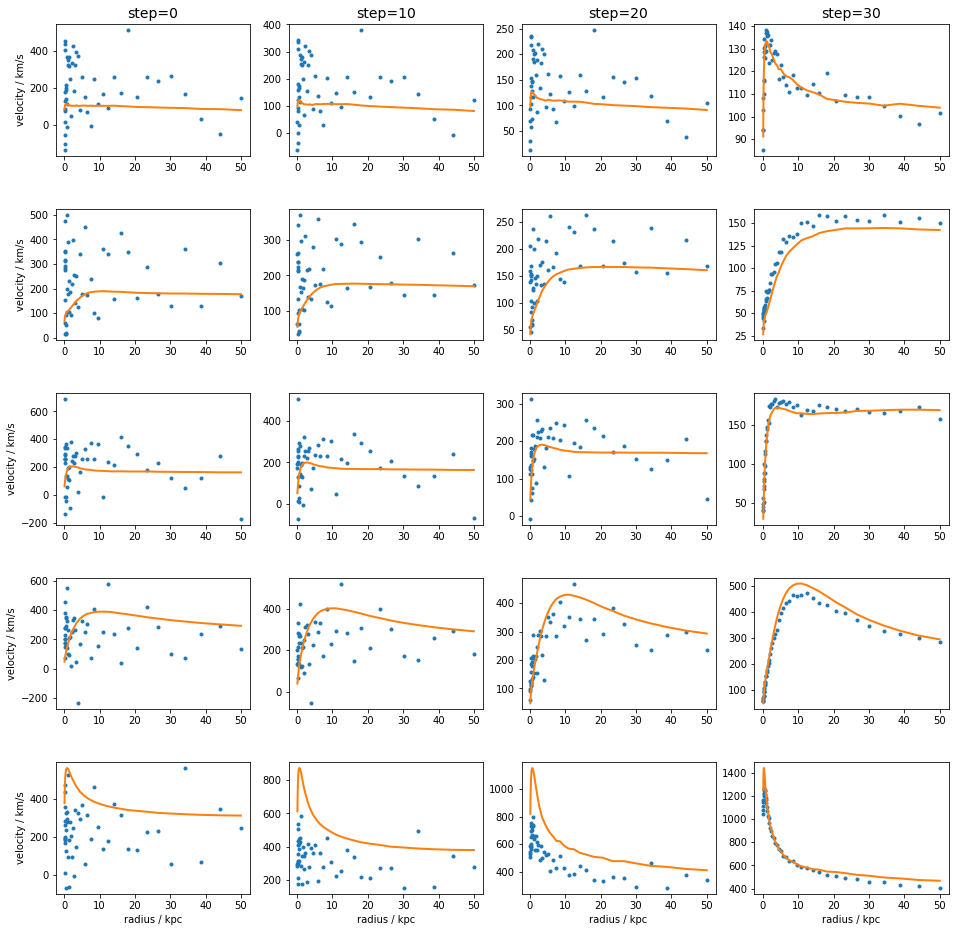
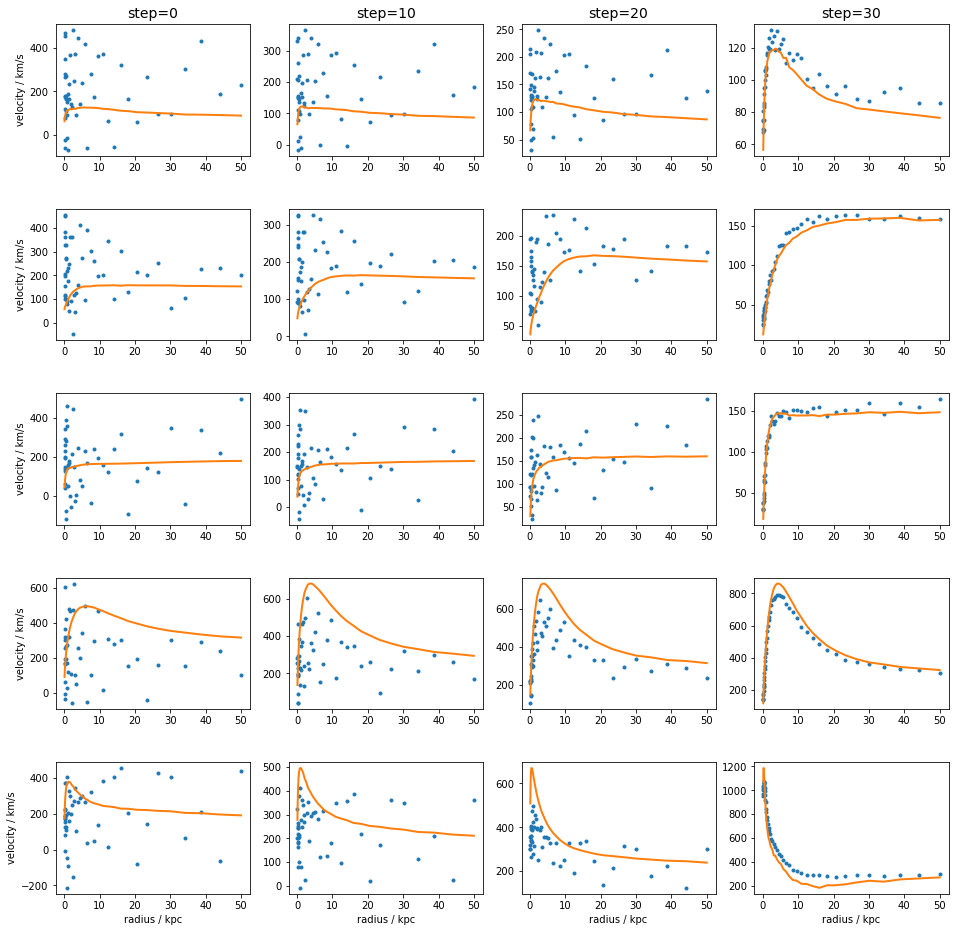
Built site for gh-pages

diff --git a/posts/2023-01-17-diffusion_conditioning.html b/posts/2023-01-17-diffusion_conditioning.html
@@ -125,6 +125,7 @@ code span.wa { color: #60a0b0; font-weight: bold; font-style: italic; } /* Warni
   }
 }</script>
 
+  <script src="https://cdn.jsdelivr.net/npm/mathjax@3/es5/tex-chtml-full.js" type="text/javascript"></script>
 
 <link rel="stylesheet" href="../styles.css">
 </head>
@@ -233,6 +234,7 @@ code span.wa { color: #60a0b0; font-weight: bold; font-style: italic; } /* Warni
   <li><a href="#model" id="toc-model" class="nav-link" data-scroll-target="#model">Model</a></li>
   </ul></li>
   <li><a href="#generating-new-conditioned-data" id="toc-generating-new-conditioned-data" class="nav-link" data-scroll-target="#generating-new-conditioned-data">Generating new conditioned data</a></li>
+  <li><a href="#final-remarks" id="toc-final-remarks" class="nav-link" data-scroll-target="#final-remarks">Final remarks</a></li>
   </ul>
 </nav>
     </div>
@@ -244,7 +246,7 @@ code span.wa { color: #60a0b0; font-weight: bold; font-style: italic; } /* Warni
 
 <section id="how-to-generate-new-data-with-specific-characteristics" class="level2">
 <h2 class="anchored" data-anchor-id="how-to-generate-new-data-with-specific-characteristics">How to generate new data with specific characteristics</h2>
-<p>In the <a href="https://lposti.github.io/mlpq/posts/2023-01-diffusion_intro.html">last notebook</a> I’ve shown how to write from scratch a simplified diffusion model that generates quite realistic rotation curves starting from random noise. This was done by training an autoencoder to denoise rotation curves from a given database and then new curves were generated by gradually denoising pure Gaussian noise.</p>
+<p>In the <a href="https://lposti.github.io/mlpq/posts/2023-01-13-diffusion_intro.html">last notebook</a> I’ve shown how to write from scratch a simplified diffusion model that generates quite realistic rotation curves starting from random noise. This was done by training an autoencoder to denoise rotation curves from a given database and then new curves were generated by gradually denoising pure Gaussian noise.</p>
 <p>The limitation of the pipeline above is that we have no control on what output curve will be generated, since it all stars with random noise and the model slowly enhances some random features in the noise distribution by convincing itself that it is an underlying signal. What we would like to do now is to <strong>guide the model to generate rotation curves with some specific characteristics</strong> – asymptotically flat, fast rise, slow rise, etc. – that we decide upfront. Basically, we are asking the model to focus on and enhance those bits of random noise that kind of look like the features that we are interested in, and by using the same gradual denoising procedure based on small <em>timesteps</em> the algorithm will be able to further refine them and to finally construct a realistic dataset with some given charateristics.</p>
 <div class="cell" data-execution_count="1">
 <details>
@@ -267,7 +269,7 @@ code span.wa { color: #60a0b0; font-weight: bold; font-style: italic; } /* Warni
 </section>
 <section id="data-generation" class="level2">
 <h2 class="anchored" data-anchor-id="data-generation">Data generation</h2>
-<p>Let’s start by generating a rotation curve dataset. This step is borrowed from the blog post <a href="https://lposti.github.io/mlpq/posts/2023-01-diffusion_intro.html">intro to diffusion models</a> and I use the same methodology and the same code. However, to spice things up a bit, here I introduce another mass component to the galaxy rotation curves which is the bulge. Thus, I have a new mass–size relation for bulges that I use to sample the parameter space and I add the circular velocity of a Hernquist bulge into the calculation of the rotation curves.</p>
+<p>Let’s start by generating a rotation curve dataset. This step is borrowed from the blog post <a href="https://lposti.github.io/mlpq/posts/2023-01-13-diffusion_intro.html">intro to diffusion models</a> and I use the same methodology and the same code. However, to spice things up a bit, here I introduce another mass component to the galaxy rotation curves which is the bulge. Thus, I have a new mass–size relation for bulges that I use to sample the parameter space and I add the circular velocity of a Hernquist bulge into the calculation of the rotation curves.</p>
 <p>Galaxies with significantly different mass and size ratios of the disc and bulge components have quite different rotation curves, with distinct recognizeable features – e.g.&nbsp;high bulge-fraction galaxies have rotation curves that rise very steeply, have central peak, and then decline fast, while those with low bulge fraction have a slowly rising curve. The goal of this notebook is then to train a model that can generate rotation curves that have some of these specific features that we can specify upfront.</p>
 <div class="cell" data-execution_count="2">
 <details>
@@ -427,7 +429,7 @@ code span.wa { color: #60a0b0; font-weight: bold; font-style: italic; } /* Warni
 <section id="conditioning-tensors" class="level3">
 <h3 class="anchored" data-anchor-id="conditioning-tensors">Conditioning tensors</h3>
 <p>I select four properties that I use as conditioning: the bulge over stellar mass ratio, the stellar over halo mass ratio, the disc over bulge size ratio, and the stellar mass. While the latter specifies the absolute scale of the galaxy, the other three are relative parameters that are able to constrain the shape of the rotation curve relatively well.</p>
-<div class="cell" data-execution_count="215">
+<div class="cell" data-execution_count="285">
 <div class="sourceCode cell-code" id="cb11"><pre class="sourceCode python code-with-copy"><code class="sourceCode python"><span id="cb11-1"><a href="#cb11-1" aria-hidden="true" tabindex="-1"></a>cond_train <span class="op">=</span> tensor([mb<span class="op">/</span>ms, np.log10(ms<span class="op">/</span>mh), </span>
 <span id="cb11-2"><a href="#cb11-2" aria-hidden="true" tabindex="-1"></a>                     np.log10(rd<span class="op">/</span>rb), np.log10(ms)])[:, idshuff[:<span class="bu">int</span>(nsamp<span class="op">*</span>(<span class="fl">1.0</span><span class="op">-</span>fval))]].T.<span class="bu">float</span>()</span>
 <span id="cb11-3"><a href="#cb11-3" aria-hidden="true" tabindex="-1"></a>cond_valid <span class="op">=</span> tensor([mb<span class="op">/</span>ms, np.log10(ms<span class="op">/</span>mh), </span>
@@ -437,17 +439,17 @@ code span.wa { color: #60a0b0; font-weight: bold; font-style: italic; } /* Warni
 </section>
 <section id="model" class="level3">
 <h3 class="anchored" data-anchor-id="model">Model</h3>
-<div class="cell" data-execution_count="177">
+<div class="cell" data-execution_count="286">
 <div class="sourceCode cell-code" id="cb12"><pre class="sourceCode python code-with-copy"><code class="sourceCode python"><span id="cb12-1"><a href="#cb12-1" aria-hidden="true" tabindex="-1"></a><span class="kw">class</span> AE_cond_net(nn.Module):</span>
 <span id="cb12-2"><a href="#cb12-2" aria-hidden="true" tabindex="-1"></a>    <span class="kw">def</span> <span class="fu">__init__</span>(<span class="va">self</span>, ninp, ncond<span class="op">=</span><span class="dv">4</span>, <span class="op">**</span>kwargs):</span>
 <span id="cb12-3"><a href="#cb12-3" aria-hidden="true" tabindex="-1"></a>        <span class="bu">super</span>().<span class="fu">__init__</span>()</span>
 <span id="cb12-4"><a href="#cb12-4" aria-hidden="true" tabindex="-1"></a>        <span class="va">self</span>.encoder_layers <span class="op">=</span> nn.ModuleList([</span>
 <span id="cb12-5"><a href="#cb12-5" aria-hidden="true" tabindex="-1"></a>            nn.Linear(in_features<span class="op">=</span>ninp<span class="op">+</span>ncond, out_features<span class="op">=</span><span class="dv">32</span>),</span>
 <span id="cb12-6"><a href="#cb12-6" aria-hidden="true" tabindex="-1"></a>            nn.Linear(in_features<span class="op">=</span><span class="dv">32</span>,         out_features<span class="op">=</span><span class="dv">16</span>),</span>
-<span id="cb12-7"><a href="#cb12-7" aria-hidden="true" tabindex="-1"></a>            nn.Linear(in_features<span class="op">=</span><span class="dv">16</span>,         out_features<span class="op">=</span><span class="dv">4</span>)</span>
+<span id="cb12-7"><a href="#cb12-7" aria-hidden="true" tabindex="-1"></a>            nn.Linear(in_features<span class="op">=</span><span class="dv">16</span>,         out_features<span class="op">=</span><span class="dv">6</span>)</span>
 <span id="cb12-8"><a href="#cb12-8" aria-hidden="true" tabindex="-1"></a>        ])</span>
 <span id="cb12-9"><a href="#cb12-9" aria-hidden="true" tabindex="-1"></a>        <span class="va">self</span>.decoder_layers <span class="op">=</span> nn.ModuleList([</span>
-<span id="cb12-10"><a href="#cb12-10" aria-hidden="true" tabindex="-1"></a>            nn.Linear(in_features<span class="op">=</span><span class="dv">4</span>,    out_features<span class="op">=</span><span class="dv">16</span>),</span>
+<span id="cb12-10"><a href="#cb12-10" aria-hidden="true" tabindex="-1"></a>            nn.Linear(in_features<span class="op">=</span><span class="dv">6</span>,    out_features<span class="op">=</span><span class="dv">16</span>),</span>
 <span id="cb12-11"><a href="#cb12-11" aria-hidden="true" tabindex="-1"></a>            nn.Linear(in_features<span class="op">=</span><span class="dv">16</span>,   out_features<span class="op">=</span><span class="dv">32</span>),</span>
 <span id="cb12-12"><a href="#cb12-12" aria-hidden="true" tabindex="-1"></a>            nn.Linear(in_features<span class="op">=</span><span class="dv">32</span>,   out_features<span class="op">=</span>ninp)</span>
 <span id="cb12-13"><a href="#cb12-13" aria-hidden="true" tabindex="-1"></a>        ])</span>
@@ -469,10 +471,10 @@ code span.wa { color: #60a0b0; font-weight: bold; font-style: italic; } /* Warni
 <span id="cb12-29"><a href="#cb12-29" aria-hidden="true" tabindex="-1"></a>        <span class="cf">return</span> x</span></code><button title="Copy to Clipboard" class="code-copy-button"><i class="bi"></i></button></pre></div>
 </div>
 <p>This model is quite similar to the unconditioned autoencoder that I used for the previous blog post, with just the first layer being different as now it takes four more inputs.</p>
-<div class="cell" data-execution_count="179">
+<div class="cell" data-execution_count="287">
 <div class="sourceCode cell-code" id="cb13"><pre class="sourceCode python code-with-copy"><code class="sourceCode python"><span id="cb13-1"><a href="#cb13-1" aria-hidden="true" tabindex="-1"></a>model <span class="op">=</span> AE_cond_net(<span class="bu">len</span>(cm.rad))</span></code><button title="Copy to Clipboard" class="code-copy-button"><i class="bi"></i></button></pre></div>
 </div>
-<div class="cell" data-execution_count="180">
+<div class="cell" data-execution_count="288">
 <div class="sourceCode cell-code" id="cb14"><pre class="sourceCode python code-with-copy"><code class="sourceCode python"><span id="cb14-1"><a href="#cb14-1" aria-hidden="true" tabindex="-1"></a><span class="co"># Adam and MSE Loss</span></span>
 <span id="cb14-2"><a href="#cb14-2" aria-hidden="true" tabindex="-1"></a>loss_func <span class="op">=</span> nn.MSELoss(reduction<span class="op">=</span><span class="st">'mean'</span>)</span>
 <span id="cb14-3"><a href="#cb14-3" aria-hidden="true" tabindex="-1"></a>optimizer <span class="op">=</span> torch.optim.Adam(model.parameters(), lr<span class="op">=</span><span class="fl">0.01</span>)</span>
@@ -499,27 +501,27 @@ code span.wa { color: #60a0b0; font-weight: bold; font-style: italic; } /* Warni
 <span id="cb14-24"><a href="#cb14-24" aria-hidden="true" tabindex="-1"></a>                           <span class="st">"train L:</span><span class="sc">%1.2e</span><span class="st">"</span>   <span class="op">%</span> loss, </span>
 <span id="cb14-25"><a href="#cb14-25" aria-hidden="true" tabindex="-1"></a>                           <span class="st">"  valid L:</span><span class="sc">%1.2e</span><span class="st">"</span> <span class="op">%</span> loss_func(xvalid, model.forward(xvalid, cond_valid)))</span></code><button title="Copy to Clipboard" class="code-copy-button"><i class="bi"></i></button></pre></div>
 <div class="cell-output cell-output-stdout">
-<pre><code>0 train L:1.12e+00   valid L:8.95e-01
-100 train L:1.75e-01   valid L:8.12e-02
-200 train L:1.30e-01   valid L:4.16e-02
-300 train L:1.11e-01   valid L:4.08e-02
-400 train L:1.16e-01   valid L:3.14e-02
-500 train L:1.12e-01   valid L:2.67e-02
-600 train L:1.49e-01   valid L:3.10e-02
-700 train L:1.06e-01   valid L:7.43e-02
-800 train L:8.87e-02   valid L:4.36e-02
-900 train L:1.05e-01   valid L:8.58e-02
-1000 train L:9.61e-02   valid L:2.50e-02
-1100 train L:1.02e-01   valid L:4.59e-02
-1200 train L:9.14e-02   valid L:4.38e-02
-1300 train L:1.07e-01   valid L:5.09e-02
-1400 train L:9.99e-02   valid L:1.62e-02
-1500 train L:9.19e-02   valid L:1.99e-02
-1600 train L:8.79e-02   valid L:2.06e-02
-1700 train L:9.56e-02   valid L:3.83e-02
-1800 train L:9.37e-02   valid L:2.37e-02
-1900 train L:9.59e-02   valid L:5.43e-02
-2000 train L:9.33e-02   valid L:2.87e-02</code></pre>
+<pre><code>0 train L:1.23e+00   valid L:9.17e-01
+100 train L:1.80e-01   valid L:6.70e-02
+200 train L:1.40e-01   valid L:6.90e-02
+300 train L:1.09e-01   valid L:5.56e-02
+400 train L:1.06e-01   valid L:3.59e-02
+500 train L:1.11e-01   valid L:3.06e-02
+600 train L:9.95e-02   valid L:3.14e-02
+700 train L:9.84e-02   valid L:2.69e-02
+800 train L:9.69e-02   valid L:5.71e-02
+900 train L:1.09e-01   valid L:2.76e-02
+1000 train L:1.06e-01   valid L:3.44e-02
+1100 train L:9.14e-02   valid L:2.81e-02
+1200 train L:1.06e-01   valid L:3.16e-02
+1300 train L:1.12e-01   valid L:4.62e-02
+1400 train L:9.92e-02   valid L:1.51e-02
+1500 train L:9.39e-02   valid L:2.78e-02
+1600 train L:1.02e-01   valid L:1.92e-02
+1700 train L:1.03e-01   valid L:1.88e-02
+1800 train L:9.26e-02   valid L:2.04e-02
+1900 train L:8.86e-02   valid L:2.43e-02
+2000 train L:8.94e-02   valid L:3.34e-02</code></pre>
 </div>
 </div>
 </section>
@@ -551,7 +553,7 @@ code span.wa { color: #60a0b0; font-weight: bold; font-style: italic; } /* Warni
 <span id="cb17-17"><a href="#cb17-17" aria-hidden="true" tabindex="-1"></a>inputs  <span class="op">=</span> torch.stack(inputs)</span>
 <span id="cb17-18"><a href="#cb17-18" aria-hidden="true" tabindex="-1"></a>outputs <span class="op">=</span> torch.stack(outputs)</span></code><button title="Copy to Clipboard" class="code-copy-button"><i class="bi"></i></button></pre></div>
 </div>
-<div class="cell" data-execution_count="279">
+<div class="cell" data-execution_count="280">
 <div class="sourceCode cell-code" id="cb18"><pre class="sourceCode python code-with-copy"><code class="sourceCode python"><span id="cb18-1"><a href="#cb18-1" aria-hidden="true" tabindex="-1"></a>fig, ax <span class="op">=</span> plt.subplots(figsize<span class="op">=</span>(<span class="dv">16</span>,<span class="fl">2.5</span>), ncols<span class="op">=</span>inputs.shape[<span class="dv">0</span>])</span>
 <span id="cb18-2"><a href="#cb18-2" aria-hidden="true" tabindex="-1"></a></span>
 <span id="cb18-3"><a href="#cb18-3" aria-hidden="true" tabindex="-1"></a><span class="cf">for</span> j <span class="kw">in</span> <span class="bu">range</span>(inputs.shape[<span class="dv">0</span>]):</span>
@@ -571,15 +573,16 @@ code span.wa { color: #60a0b0; font-weight: bold; font-style: italic; } /* Warni
 </div>
 <p>Fantastic!</p>
 <p>We have successfully created a model that takes as input four numbers, that specify some properties of a galaxy, and it returns as output a realistic rotation curve for that galaxy. The gradual denoising pipeline that we used here is great since it allows us to simply try with another initial random tensor and we will get out a different rotation curve, but with the same features that we specified. This is useful to generate multiple instances of the same galaxy type.</p>
+<p>In the Figure above we can se the <em>temporal sequence</em> of gradual denoising conditioned by the four input parameters in 30 steps. The generated rotation curve in the final step (orange curve, rightmost plot) is compared to circular velocity of the bulge component (red dotted) and dark matter component (black dotted) of a galaxy model with parameters close to those used for the curve generation: <span class="math inline">\(M_{\rm bul}/M_\star = 0.75\)</span>, <span class="math inline">\(\log(M_\star/M_{\rm halo})=-1.1\)</span>, <span class="math inline">\(\log(R_{\rm disc}/R_{\rm bul})=0.8\)</span>, <span class="math inline">\(\log M_\star = 10\)</span>.</p>
 <p>Naturally, we can readily generate new samples of all sorts of galaxy rotation curve types.</p>
-<div class="cell" data-execution_count="209">
+<div class="cell" data-execution_count="289">
 <div class="sourceCode cell-code" id="cb19"><pre class="sourceCode python code-with-copy"><code class="sourceCode python"><span id="cb19-1"><a href="#cb19-1" aria-hidden="true" tabindex="-1"></a>conds <span class="op">=</span> tensor([[<span class="fl">0.9</span>,  <span class="op">-</span><span class="fl">1.2</span>, <span class="fl">0.8</span>, <span class="fl">10.0</span>],</span>
 <span id="cb19-2"><a href="#cb19-2" aria-hidden="true" tabindex="-1"></a>                [<span class="fl">0.01</span>, <span class="op">-</span><span class="fl">1.2</span>, <span class="fl">1.0</span>, <span class="fl">10.5</span>],</span>
 <span id="cb19-3"><a href="#cb19-3" aria-hidden="true" tabindex="-1"></a>                [<span class="fl">0.5</span>,  <span class="op">-</span><span class="fl">1.2</span>, <span class="op">-</span><span class="fl">1.0</span>, <span class="fl">10.7</span>],</span>
 <span id="cb19-4"><a href="#cb19-4" aria-hidden="true" tabindex="-1"></a>                [<span class="fl">0.01</span>, <span class="op">-</span><span class="fl">0.3</span>, <span class="fl">0.5</span>, <span class="fl">11.7</span>],</span>
 <span id="cb19-5"><a href="#cb19-5" aria-hidden="true" tabindex="-1"></a>                [<span class="fl">0.9</span>,  <span class="op">-</span><span class="fl">0.3</span>, <span class="fl">1.5</span>, <span class="fl">11.5</span>]])</span></code><button title="Copy to Clipboard" class="code-copy-button"><i class="bi"></i></button></pre></div>
 </div>
-<div class="cell" data-execution_count="210">
+<div class="cell" data-execution_count="290">
 <div class="sourceCode cell-code" id="cb20"><pre class="sourceCode python code-with-copy"><code class="sourceCode python"><span id="cb20-1"><a href="#cb20-1" aria-hidden="true" tabindex="-1"></a>nsteps <span class="op">=</span> <span class="dv">31</span>    </span>
 <span id="cb20-2"><a href="#cb20-2" aria-hidden="true" tabindex="-1"></a>x_ini <span class="op">=</span> torch.randn_like(xtrain[:<span class="dv">5</span>])</span>
 <span id="cb20-3"><a href="#cb20-3" aria-hidden="true" tabindex="-1"></a>inputs  <span class="op">=</span> []</span>
@@ -599,7 +602,7 @@ code span.wa { color: #60a0b0; font-weight: bold; font-style: italic; } /* Warni
 <span id="cb20-17"><a href="#cb20-17" aria-hidden="true" tabindex="-1"></a>inputs  <span class="op">=</span> torch.stack(inputs)</span>
 <span id="cb20-18"><a href="#cb20-18" aria-hidden="true" tabindex="-1"></a>outputs <span class="op">=</span> torch.stack(outputs)</span></code><button title="Copy to Clipboard" class="code-copy-button"><i class="bi"></i></button></pre></div>
 </div>
-<div class="cell" data-execution_count="211">
+<div class="cell" data-execution_count="291">
 <div class="sourceCode cell-code" id="cb21"><pre class="sourceCode python code-with-copy"><code class="sourceCode python"><span id="cb21-1"><a href="#cb21-1" aria-hidden="true" tabindex="-1"></a>fig, ax <span class="op">=</span> plt.subplots(figsize<span class="op">=</span>(<span class="dv">16</span>,<span class="dv">16</span>), nrows<span class="op">=</span>inputs.shape[<span class="dv">1</span>], ncols<span class="op">=</span>inputs.shape[<span class="dv">0</span>], gridspec_kw<span class="op">=</span>{<span class="st">'hspace'</span>:<span class="fl">0.4</span>})</span>
 <span id="cb21-2"><a href="#cb21-2" aria-hidden="true" tabindex="-1"></a></span>
 <span id="cb21-3"><a href="#cb21-3" aria-hidden="true" tabindex="-1"></a><span class="cf">for</span> i <span class="kw">in</span> <span class="bu">range</span>(inputs.shape[<span class="dv">1</span>]):</span>
@@ -614,6 +617,12 @@ code span.wa { color: #60a0b0; font-weight: bold; font-style: italic; } /* Warni
 <p><img src="2023-01-17_diffusion_conditioning_files/figure-html/cell-23-output-1.png" class="img-fluid"></p>
 </div>
 </div>
+<p>As you can see, multiple instances of virtually any kind of rotation curve can be now generated by the model by gradually denoising initial Gaussian noise.</p>
+</section>
+<section id="final-remarks" class="level2">
+<h2 class="anchored" data-anchor-id="final-remarks">Final remarks</h2>
+<p>The rotation curves that I used here are a 6-parameters family, thus I kept the number of conditioning features smaller than this (i.e.&nbsp;4) just to make sure that the model would not trivially learn to map the full rotation curve tensor into the initial 6 parameters. In other words, had we given the model 6 conditioning features, it would have probably mapped with an identity the initial 6 parameters into the 6-dimensional latent space, and then the decoder would have learned the analytic forms of the curves from these 6 parameters. Hence, by having a 4 conditioning numbers I am sure that there are an infinite number of curves that can be generated by the model and associated with the conditioning input.</p>
+<p>Naturally, this exercise could have been solved more easily without using this denoising scheme. However, it is useful to do it in this way since this mirrors very well all the principles that are used in state-of-the-art diffusion models.</p>
 
 
 </section>

diff --git a/index.html b/index.html
@@ -158,7 +158,7 @@ ul.task-list li input[type="checkbox"] {
 
 <div class="quarto-listing quarto-listing-container-default" id="listing-listing">
 <div class="list quarto-listing-default">
-<div class="quarto-post image-right" data-index="0" data-categories="neural network,diffusion,jupyter" data-listing-date-sort="1673913600000" data-listing-file-modified-sort="1674214088736" data-listing-reading-time-sort="4.81">
+<div class="quarto-post image-right" data-index="0" data-categories="neural network,diffusion,jupyter" data-listing-date-sort="1673913600000" data-listing-file-modified-sort="1674226446800" data-listing-reading-time-sort="6.13">
 <div class="thumbnail">
 <p><a href="./posts/2023-01-17-diffusion_conditioning.html"> <img src="./posts/figures/2023-01-17_image.png" class="thumnail-image"> </a></p>
 </div>
@@ -199,7 +199,7 @@ Lorenzo Posti
 </a>
 </div>
 </div>
-<div class="quarto-post image-right" data-index="1" data-categories="neural_network,diffusion,jupyter" data-listing-date-sort="1673568000000" data-listing-file-modified-sort="1674214088732" data-listing-reading-time-sort="5.2">
+<div class="quarto-post image-right" data-index="1" data-categories="neural_network,diffusion,jupyter" data-listing-date-sort="1673568000000" data-listing-file-modified-sort="1674226446796" data-listing-reading-time-sort="5.2">
 <div class="thumbnail">
 <p><a href="./posts/2023-01-13-diffusion_intro.html"> <img src="./posts/figures/2023-01-13_image.png" class="thumnail-image"> </a></p>
 </div>
@@ -240,7 +240,7 @@ Lorenzo Posti
 </a>
 </div>
 </div>
-<div class="quarto-post image-right" data-index="2" data-categories="jupyter,vcdisk" data-listing-date-sort="1670457600000" data-listing-file-modified-sort="1674214088732" data-listing-reading-time-sort="4.75">
+<div class="quarto-post image-right" data-index="2" data-categories="jupyter,vcdisk" data-listing-date-sort="1670457600000" data-listing-file-modified-sort="1674226446796" data-listing-reading-time-sort="4.75">
 <div class="thumbnail">
 <p><a href="./posts/2022-12-08-vcdisk.html"> <img src="./posts/figures/2022-12-08_image.png" class="thumnail-image"> </a></p>
 </div>
@@ -278,7 +278,7 @@ Lorenzo Posti
 </a>
 </div>
 </div>
-<div class="quarto-post image-right" data-index="3" data-categories="neural_network,jupyter" data-listing-date-sort="1668556800000" data-listing-file-modified-sort="1674214088728" data-listing-reading-time-sort="7.54">
+<div class="quarto-post image-right" data-index="3" data-categories="neural_network,jupyter" data-listing-date-sort="1668556800000" data-listing-file-modified-sort="1674226446792" data-listing-reading-time-sort="7.54">
 <div class="thumbnail">
 <p><a href="./posts/2022-11-16-rotcurves_nn_mond.html"> <img src="./posts/figures/2022-11-16_image.png" class="thumnail-image"> </a></p>
 </div>
@@ -316,7 +316,7 @@ Lorenzo Posti
 </a>
 </div>
 </div>
-<div class="quarto-post image-right" data-index="4" data-categories="gaussian_processes" data-listing-date-sort="1667347200000" data-listing-file-modified-sort="1674214088724" data-listing-reading-time-sort="5.75">
+<div class="quarto-post image-right" data-index="4" data-categories="gaussian_processes" data-listing-date-sort="1667347200000" data-listing-file-modified-sort="1674226446788" data-listing-reading-time-sort="5.75">
 <div class="thumbnail">
 <p><a href="./posts/2022-11-02-gp_rotcurves.html"> <img src="./posts/figures/2022-11-02_image.png" class="thumnail-image"> </a></p>
 </div>
@@ -351,7 +351,7 @@ Lorenzo Posti
 </a>
 </div>
 </div>
-<div class="quarto-post image-right" data-index="5" data-categories="gaussian_processes,bayesian,jupyter" data-listing-date-sort="1665964800000" data-listing-file-modified-sort="1674214088720" data-listing-reading-time-sort="10.34">
+<div class="quarto-post image-right" data-index="5" data-categories="gaussian_processes,bayesian,jupyter" data-listing-date-sort="1665964800000" data-listing-file-modified-sort="1674226446784" data-listing-reading-time-sort="10.34">
 <div class="thumbnail">
 <p><a href="./posts/2022-10-17-gaussian-processes.html"> <img src="./posts/figures/2022-10-17_image.png" class="thumnail-image"> </a></p>
 </div>
@@ -392,7 +392,7 @@ Lorenzo Posti
 </a>
 </div>
 </div>
-<div class="quarto-post image-right" data-index="6" data-categories="neural_network,autoencoder,variational autoencoder,basics,jupyter" data-listing-date-sort="1665100800000" data-listing-file-modified-sort="1674214088716" data-listing-reading-time-sort="7.9">
+<div class="quarto-post image-right" data-index="6" data-categories="neural_network,autoencoder,variational autoencoder,basics,jupyter" data-listing-date-sort="1665100800000" data-listing-file-modified-sort="1674226446780" data-listing-reading-time-sort="7.9">
 <div class="thumbnail">
 <p><a href="./posts/2022-10-07-variational-autoencoder-rotcurves.html"> <img src="./posts/figures/2022-10-07_image.png" class="thumnail-image"> </a></p>
 </div>
@@ -439,7 +439,7 @@ Lorenzo Posti
 </a>
 </div>
 </div>
-<div class="quarto-post image-right" data-index="7" data-categories="neural_network,autoencoder,basics,jupyter" data-listing-date-sort="1654819200000" data-listing-file-modified-sort="1674214088704" data-listing-reading-time-sort="5.06">
+<div class="quarto-post image-right" data-index="7" data-categories="neural_network,autoencoder,basics,jupyter" data-listing-date-sort="1654819200000" data-listing-file-modified-sort="1674226446768" data-listing-reading-time-sort="5.06">
 <div class="thumbnail">
 <p><a href="./posts/2022-06-10-autoencoder-rotcurves.html"> <img src="./posts/figures/2022-06-10_image.png" class="thumnail-image"> </a></p>
 </div>
@@ -483,7 +483,7 @@ Lorenzo Posti
 </a>
 </div>
 </div>
-<div class="quarto-post image-right" data-index="8" data-categories="neural_network,basics,jupyter" data-listing-date-sort="1647907200000" data-listing-file-modified-sort="1674214088700" data-listing-reading-time-sort="3.21">
+<div class="quarto-post image-right" data-index="8" data-categories="neural_network,basics,jupyter" data-listing-date-sort="1647907200000" data-listing-file-modified-sort="1674226446764" data-listing-reading-time-sort="3.21">
 <div class="thumbnail">
 <a href="./posts/2022-03-22-nn-from-scratch.html">
 <div class="thumbnail-image">
@@ -528,7 +528,7 @@ Lorenzo Posti
 </a>
 </div>
 </div>
-<div class="quarto-post image-right" data-index="9" data-categories="neural_network,basics,bayesian,MCMC,jupyter" data-listing-date-sort="1647561600000" data-listing-file-modified-sort="1674214088700" data-listing-reading-time-sort="8.53">
+<div class="quarto-post image-right" data-index="9" data-categories="neural_network,basics,bayesian,MCMC,jupyter" data-listing-date-sort="1647561600000" data-listing-file-modified-sort="1674226446764" data-listing-reading-time-sort="8.53">
 <div class="thumbnail">
 <p><a href="./posts/2022-03-18-neurons-non-linearities.html"> <img src="./posts/figures/2022-03-18_image.png" class="thumnail-image"> </a></p>
 </div>
